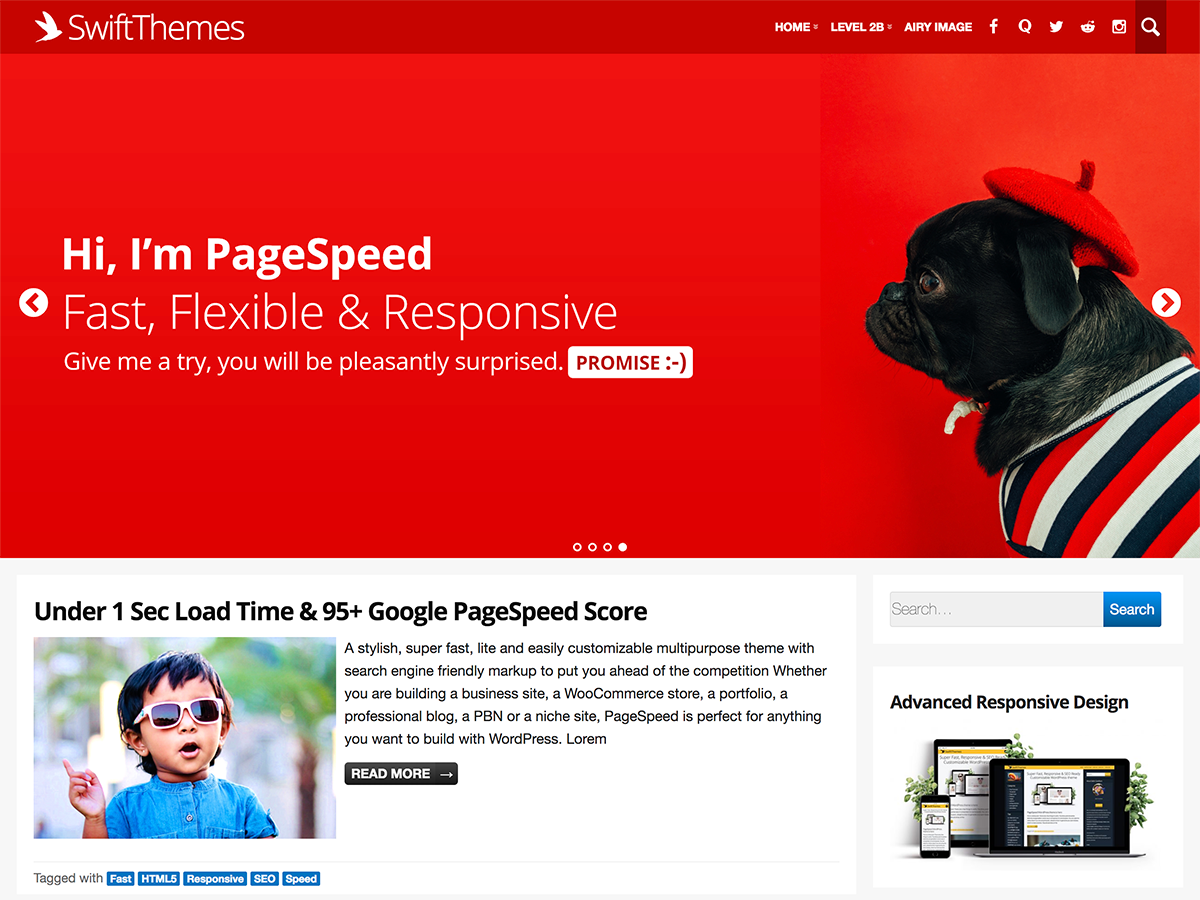
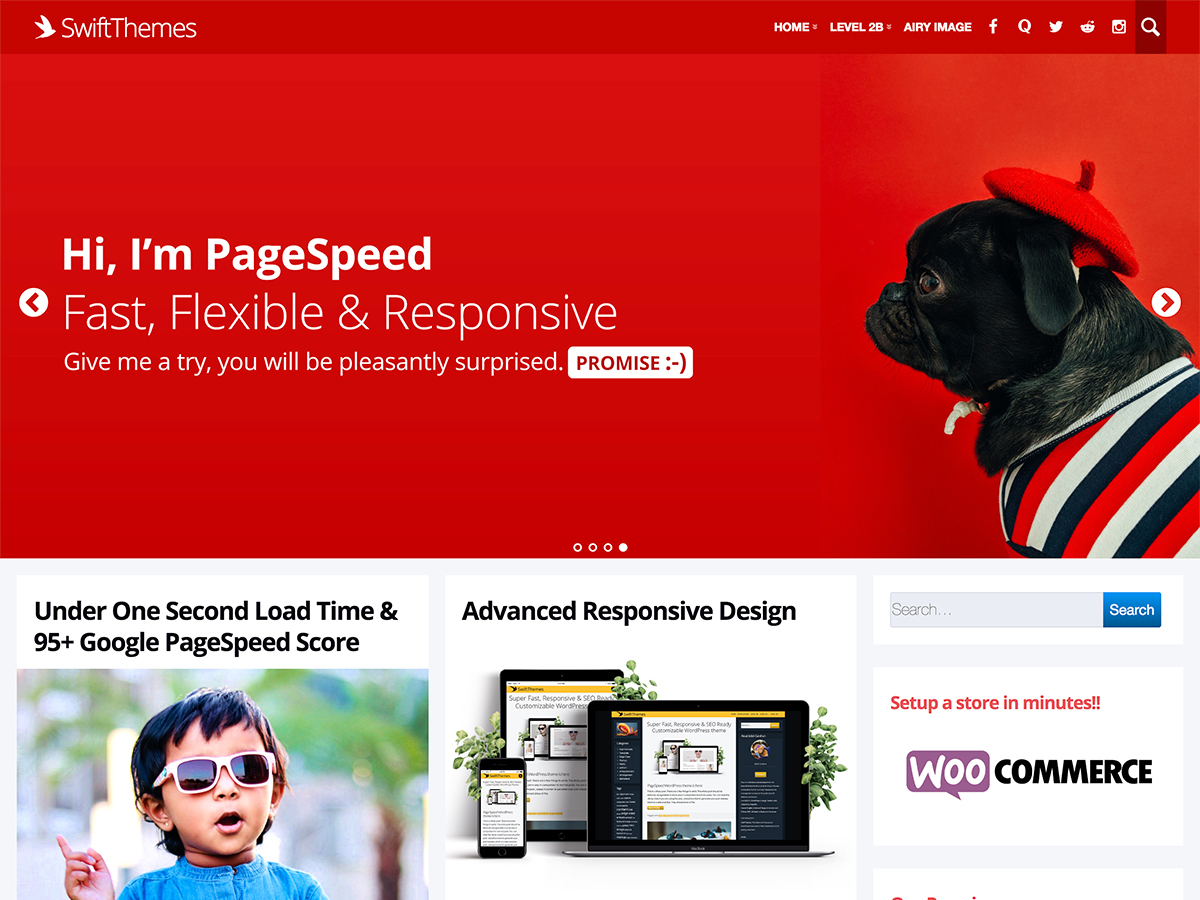
- Update screesnhot and slides. - Reducde sitename font size

diff --git a/style.css b/style.css
@@ -4,7 +4,7 @@ Theme URI: https://swiftthemes.com/
 Author: Satish Gandham
 Author URI: https://satishgandham.com/
 Description: PageSpeed is an incredibly flexible super fast responsive SEO WordPress theme with a beautiful & clean design. It will enable you to create any type of website. Whether you are building a business site, a WooCommerce store, a personal blog, a professional blog, a PBN or a niche site, PageSpeed is perfect for all of them. PageSpeed works extremely well with Page Builders. It focuses on readability by making the layout airy with lots of spacing making it very easy for your readers to consume your content. PageSpeed is coded with the latest standards with SPEED and Search Engine Optimization in mind. Since the theme is coded with WordPress standards, it is compatible with all the plugins and we officially support WooCommerce, bbPress, Easy AdSense Ads, SiteOrigins PageBuilder, Elementor and Beaver. PageSpeed has lot of customization options like ＊ Featured post slider, ＊ Sticky navigation and sidebars, ＊ Customizable widths and 5 layouts ＊ Google Font Integration ＊ 6 Color Schemes ＊ Full-width template for use with page builders and lot more. DEMO: http://demos.swiftthemes.com
-Version: 1.30
+Version: 1.32
 License: GNU General Public License v2 or later
 License URI: http://www.gnu.org/licenses/gpl-2.0.html
 Tags: one-column, two-columns, three-columns, left-sidebar, right-sidebar, custom-colors, custom-menu, custom-logo, featured-images, microformats, threaded-comments, translation-ready, blog, e-commerce, food-and-drink, footer-widgets, full-width-template

diff --git a/assets/css/src/af-header.scss b/assets/css/src/af-header.scss
@@ -86,7 +86,7 @@
 }
 
 // Remove description when sticky
-.is-sticky {
+.is-sticky,.sleek-header  {
   .site-title {
     font-size: 1.8em;
     //padding: 10px 0; removing because no padding is required. Line height takes care of it.
@@ -108,8 +108,3 @@
 #above-footer-ad-container {
   border-top: solid 1px $border-color;
 }
-
-
-//@todo, move to right place.
-.sleek-header .site-description{display: none}
-

diff --git a/assets/css/src/misc.scss b/assets/css/src/misc.scss
@@ -214,6 +214,6 @@
 }
 
 
-.demo-preview.home #content-wrapper{padding-top:600px;background:#b90101 url('../images/preview-images/slide.jpg') no-repeat;background-size: 100% auto}
+.demo-preview.home #content-wrapper{padding-top:600px;background:#efefef url('../images/preview-images/slide1.jpg') no-repeat;background-size: 100% auto}
 
 .demo-preview.paged #content-wrapper{padding-top: 0;background: none}

diff --git a/inc/functions-styles.php b/inc/functions-styles.php
@@ -17,7 +17,7 @@ add_action( 'wp_head', 'pagespeed_add_image_bg_for_single_post', 99 );
 
 
 function pagespeed_register_styles() {
-	wp_register_style( 'pagespeed', HELIUM_THEME_CSS_URI . 'style.prod.css', array(), '1.29' );
+	wp_register_style( 'pagespeed', HELIUM_THEME_CSS_URI . 'style.prod.css', array(), '1.32' );
 	wp_register_style( 'pagespeed-icons', HELIUM_THEME_CSS_URI . 'font-icons.css' );
 
 	$upload_dir = wp_upload_dir();
